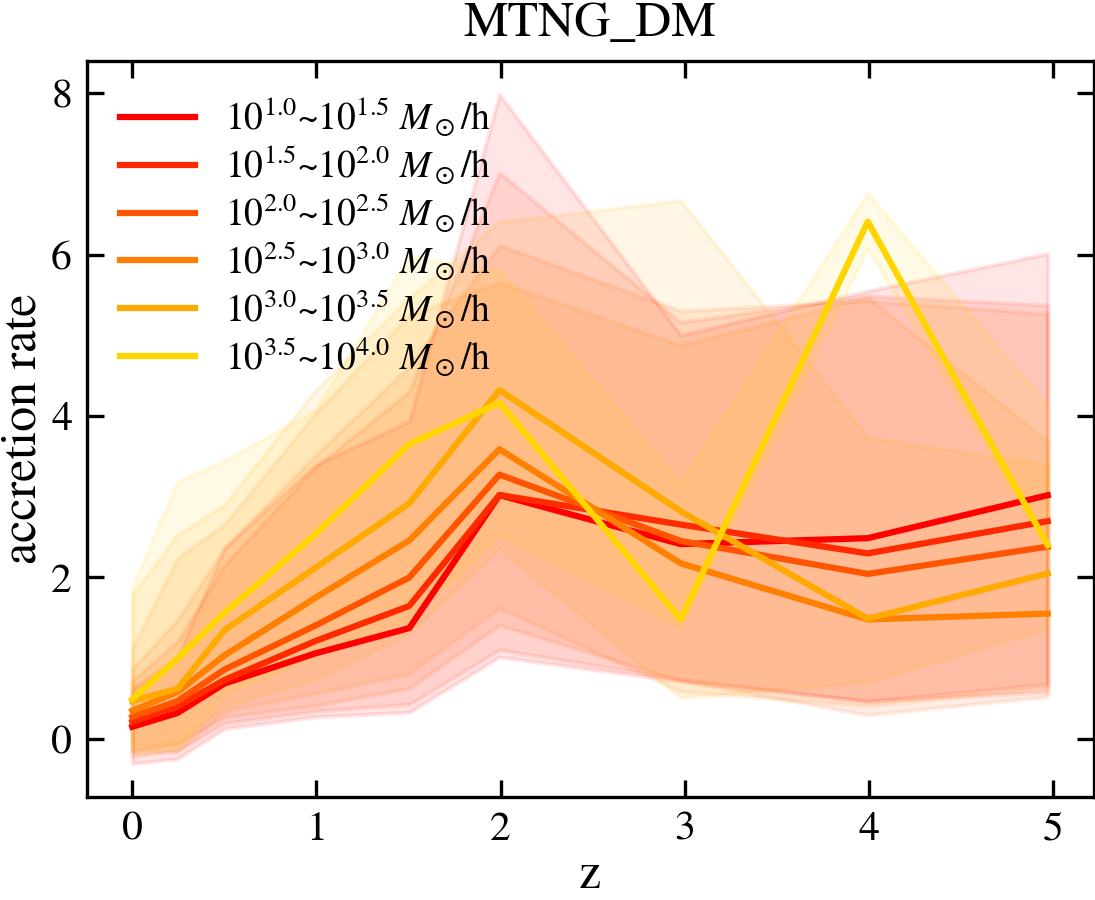
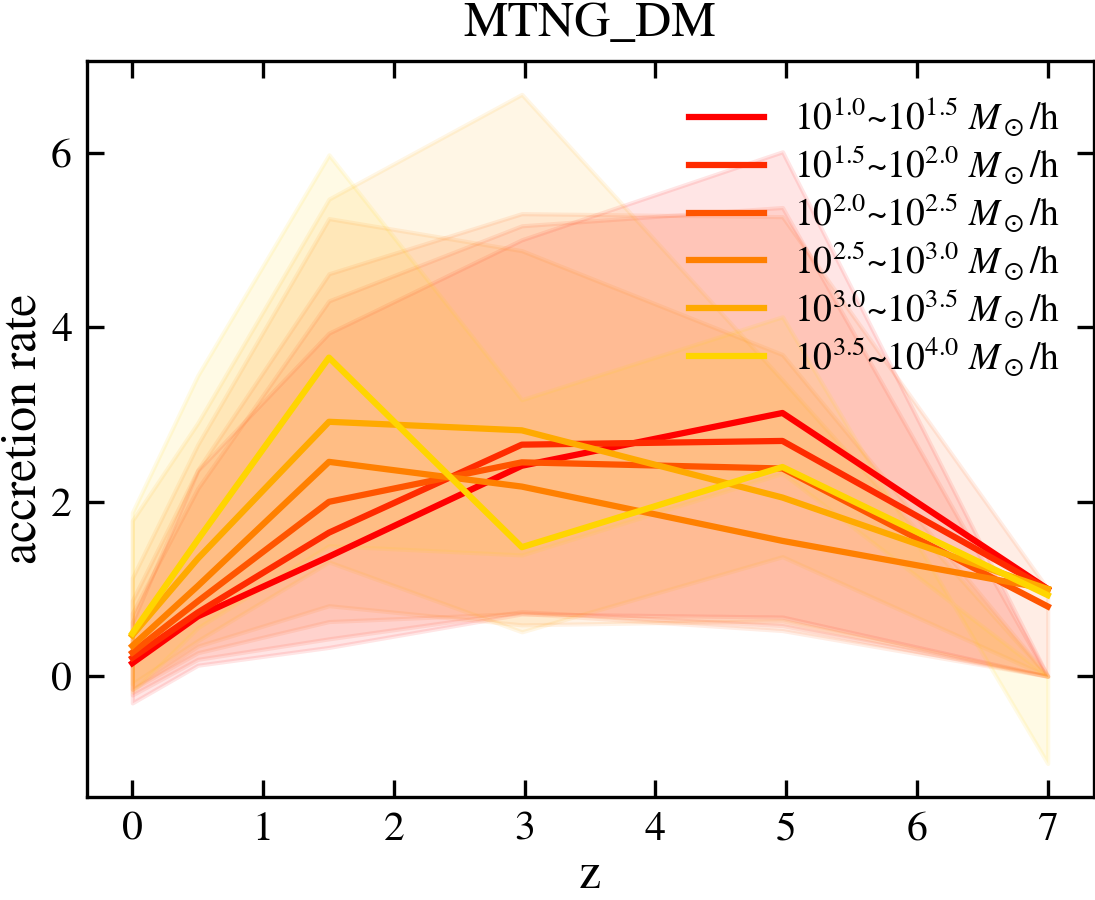
new

diff --git a/code/tree/plot_accretion_rate.py b/code/tree/plot_accretion_rate.py
@@ -1,0 +1,76 @@
+import os
+import numpy as np
+from matplotlib import pyplot as plt 
+plt.style.use('code/style.mplstyle')
+
+fig, ax = plt.subplots(1, 2, figsize=(8, 4))
+
+root_dir = 'result/accretion_rate_plot/'
+
+# Run the scripts
+# os.system('python3 code/tree/plot_accretion_hist.py --sim DM')
+# os.system('python3 code/tree/plot_accretion_hist.py --sim Hydro')
+
+# MTNG-Hydro
+data = np.load(f'{root_dir}/Hydro-Arepo/MTNG-L500-4320-A/MTNG_Hydro_accret_stats.npy', 
+               allow_pickle=True).item()
+
+redshifts = data['redshifts']
+mass_cuts = data['mass_cuts']
+std_array = data['accret_std']
+median_array = data['accret_med']
+lowp_array   = data['accret_low']
+highp_array  = data['accret_high']
+
+
+# mass_cuts = np.arange(1, 4.5, 0.5)
+# for icut in range(len(mass_cuts)-1):
+#     print(lowp_array[:, icut])
+#     print(median_array[:, icut])
+#     print(highp_array[:, icut])
+#     print('')
+    
+
+cmap = plt.get_cmap('autumn', len(mass_cuts))
+for icut in range(len(mass_cuts)-1):
+    print(median_array[:, icut])
+    mask = median_array[:, icut] != 0 # Remove zero terms
+    ax[0].plot(redshifts[mask], median_array[mask, icut], color=cmap(icut/len(mass_cuts)), 
+                label=r'$10^{%.1f}$'%mass_cuts[icut]+'~'
+                    +r'$10^{%.1f}$ '%mass_cuts[icut+1]+'$M_\\odot$/h')
+    ax[0].fill_between(redshifts[mask], lowp_array[mask, icut], highp_array[mask, icut], 
+                       alpha=0.1, color=cmap(icut/len(mass_cuts)))
+
+#TNG300_DM
+data = np.load(f'{root_dir}/DM-Arepo/MTNG-L500-4320-A/MTNG_DM_accret_stats.npy', 
+               allow_pickle=True).item()
+
+redshifts = data['redshifts']
+mass_cuts = data['mass_cuts']
+std_array = data['accret_std']
+median_array = data['accret_med']
+lowp_array   = data['accret_low']
+highp_array  = data['accret_high']
+
+
+
+cmap = plt.get_cmap('winter', len(mass_cuts))
+for icut in range(len(mass_cuts)-1):
+    print(median_array[:, icut])
+    mask = median_array[:, icut] != 0 # Remove zero terms
+    ax[1].plot(redshifts[mask], median_array[mask, icut], color=cmap(icut/len(mass_cuts)), 
+                label=r'$10^{%.1f}$'%mass_cuts[icut]+'~'
+                    +r'$10^{%.1f}$ '%mass_cuts[icut+1]+'$M_\\odot$/h')
+    ax[1].fill_between(redshifts[mask], lowp_array[mask, icut], highp_array[mask, icut], 
+                     alpha=0.1, color=cmap(icut/len(mass_cuts)))
+    
+# General settings and save fig
+ax[0].set_ylabel('accretion rate width')
+ax[0].set_xlabel('z')
+ax[1].set_xlabel('z')
+ax[0].legend(loc='best')
+ax[1].legend(loc='best')
+ax[0].set_title(f'TNG300')
+ax[1].set_title(f'TNG300_DM')
+plt.savefig(f'{root_dir}/accretion_rate_vs_z')
+plt.close()

diff --git a/code/tree/plot_accretion_hist.py b/code/tree/plot_accretion_hist.py
@@ -37,10 +37,11 @@ accretion_df = pd.read_csv(load_dir+'accretion_table.csv', index_col=0)
 print('accretion rate df succesfully loaded')
 
 # Select only accross cosmological time
-mass_df      = mass_df.loc['snap_51', 'snap_69', 'snap_94', 'snap_151', 'snap_214', 'snap_264']
-accretion_df = accretion_df.loc['snap_51', 'snap_69', 'snap_94', 'snap_151', 'snap_214', 'snap_264']
+mass_df      = mass_df.loc[['snap_51', 'snap_69', 'snap_94', 'snap_151', 'snap_214', 'snap_264']]
+accretion_df = accretion_df.loc[['snap_51', 'snap_69', 'snap_94', 'snap_151', 'snap_214', 'snap_264']]
 
 snap_list = mass_df.index
+print(snap_list)
 
 
 
@@ -106,10 +107,10 @@ plt.close()
 mass_cuts = np.arange(1, 4.5, 0.5)
 num_cuts  = int((4.5-1)/0.5)
 
-median_array = np.empty((len(snap_list), len(mass_cuts)-1))
-std_array    = np.empty((len(snap_list), len(mass_cuts)-1))
-lowp_array   = np.empty((len(snap_list), len(mass_cuts)-1))
-highp_array  = np.empty((len(snap_list), len(mass_cuts)-1))
+median_array = np.zeros((len(snap_list), len(mass_cuts)-1))
+std_array    = np.zeros((len(snap_list), len(mass_cuts)-1))
+lowp_array   = np.zeros((len(snap_list), len(mass_cuts)-1))
+highp_array  = np.zeros((len(snap_list), len(mass_cuts)-1))
 
 for isnap in range(len(snap_list)):
     
@@ -164,7 +165,7 @@ for isnap in range(len(snap_list)):
 fig, ax = plt.subplots(1, 1,)
 cmap = plt.get_cmap('autumn', len(mass_cuts))
 for icut in range(len(mass_cuts)-1):
-    mask = median_array[:, icut] > 1e-20 # Remove zero terms
+    mask = median_array[:, icut] != 0 # Remove zero terms
     ax.plot(redshifts[mask], median_array[mask, icut], color=cmap(icut/len(mass_cuts)), 
              label=r'$10^{%.1f}$'%mass_cuts[icut]+'~'
                   +r'$10^{%.1f}$ '%mass_cuts[icut+1]+'$M_\\odot$/h')

diff --git a/code/tree/plot_accretion_width.py b/code/tree/plot_accretion_width.py
@@ -24,12 +24,8 @@ highp_array  = data['accret_high']
 
 cmap = plt.get_cmap('autumn', len(mass_cuts))
 for icut in range(len(mass_cuts)-1):
-    mask = median_array[:, icut] > 1e-20 # Remove zero terms
-    # ax.plot(redshifts[mask], median_array[mask, icut], color=cmap(icut/len(mass_cuts)), 
-    #         label=r'$10^{%.1f}$'%mass_cuts[icut]+'~'
-    #              +r'$10^{%.1f}$ '%mass_cuts[icut+1]+'$M_\\odot$/h')
-    # plt.fill_between(redshifts[mask], lowp_array[mask, icut], highp_array[mask, icut], 
-    #                  alpha=0.1, color=cmap(icut/len(mass_cuts)))
+    mask = median_array[:, icut] != 0 # Remove zero terms
+
     ax[0].plot(redshifts[mask], std_array[mask, icut], color=cmap(icut/len(mass_cuts)), 
             label='std '+r'$10^{%.1f}$'%mass_cuts[icut]+'~'
                  +r'$10^{%.1f}$ '%mass_cuts[icut+1]+'$M_\\odot$/h')
@@ -50,12 +46,8 @@ highp_array  = data['accret_high']
 
 cmap = plt.get_cmap('winter', len(mass_cuts))
 for icut in range(len(mass_cuts)-1):
-    mask = median_array[:, icut] > 1e-20 # Remove zero terms
-    # ax.plot(redshifts[mask], median_array[mask, icut], color=cmap(icut/len(mass_cuts)), 
-    #          label=r'$10^{%.1f}$'%mass_cuts[icut]+'~'
-    #               +r'$10^{%.1f}$ '%mass_cuts[icut+1]+'$M_\\odot$/h')
-    # plt.fill_between(redshifts[mask], lowp_array[mask, icut], highp_array[mask, icut], 
-    #                  alpha=0.1, color=cmap(icut/len(mass_cuts)))
+    mask = median_array[:, icut] != 0 # Remove zero terms
+
     ax[1].plot(redshifts[mask], std_array[mask, icut], color=cmap(icut/len(mass_cuts)), 
              label='std '+r'$10^{%.1f}$'%mass_cuts[icut]+'~'
                   +r'$10^{%.1f}$ '%mass_cuts[icut+1]+'$M_\\odot$/h')

diff --git a/code/tree/t_dyn.py b/code/tree/t_dyn.py
@@ -1,11 +1,9 @@
-import pandas as pd
-from matplotlib import pyplot as plt 
-plt.style.use('code/style.mplstyle')
+"""The answers are ~51, ~64, 94, 151, 214, 264"""
+
 import h5py
 import illustris_python as il
 import numpy as np
 import argparse
-import os
 from tqdm import tqdm
 from func import *
 
@@ -15,7 +13,7 @@ parser.add_argument('--sim', default='DM', type=str)
 args = parser.parse_args()
 
 print('')
-print(f'>>> Accretion rate histograms <<<')
+print(f'>>> Calculate cosmological time <<<')
 print('\nInput arguments:')
 for key, val in vars(args).items():
 	print('{:16} {}'.format(key, val))
@@ -38,5 +36,3 @@ redshifts = np.array(redshifts)
 # Calculate t_dyn
 prev_snap_idx, prev_z = calc_tdyn(redshifts, basePath, 69)
 print(snap_list[prev_snap_idx], redshifts[prev_snap_idx], prev_z)
-
-# The answers are ~51, ~64, 94, 151, 214, 164
